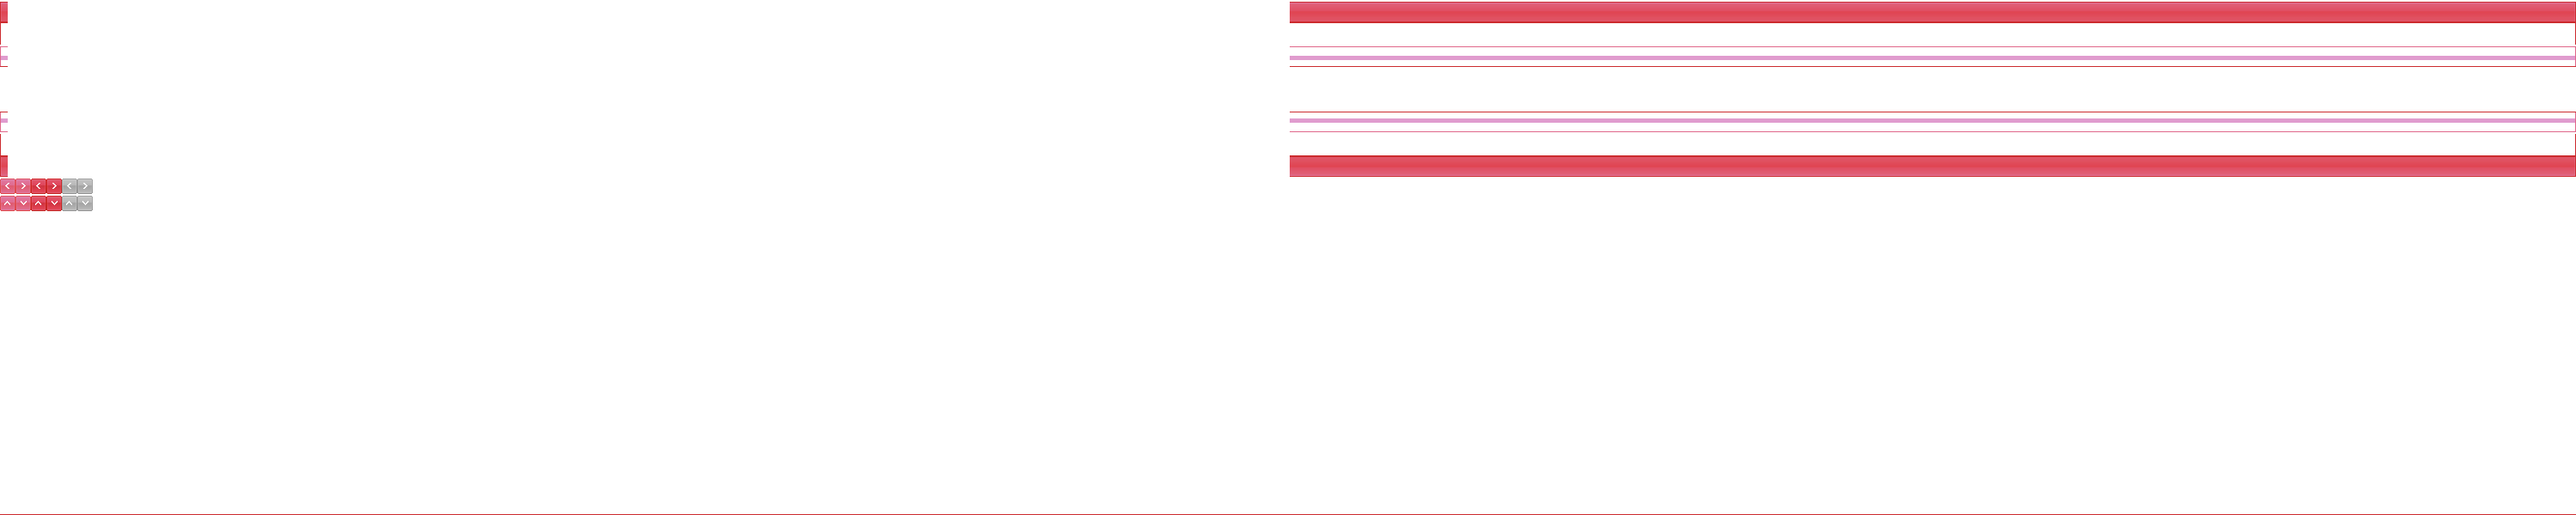
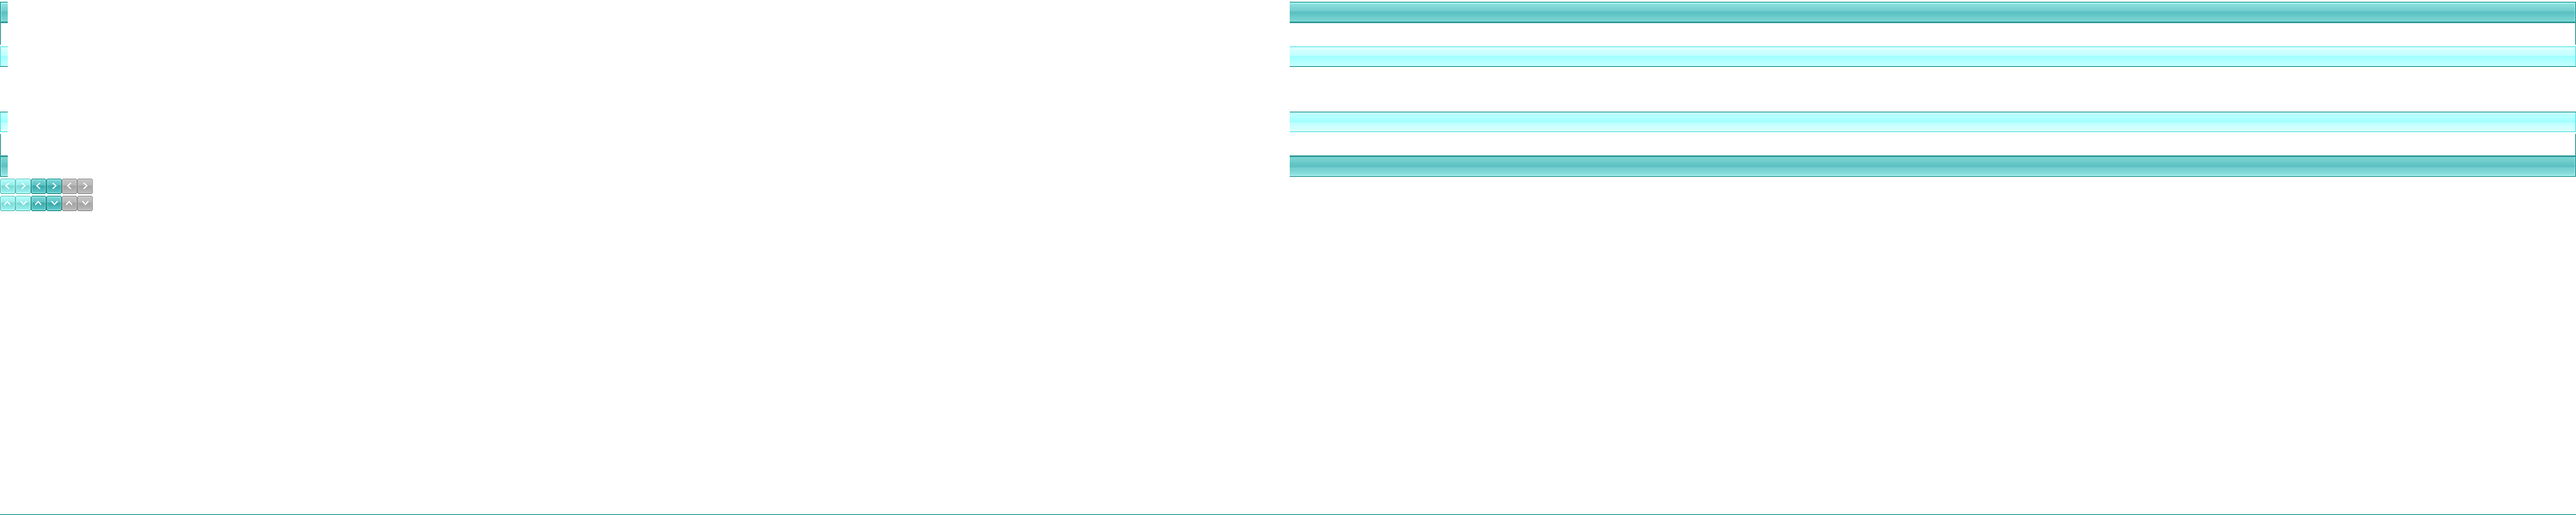
green theme

diff --git a/FlyCn/Content/themes/FlyCnGreen/TabStrip.FlyCnRed_Rad.css b/FlyCn/Content/themes/FlyCnGreen/TabStrip.FlyCnRed_Rad.css
@@ -6,7 +6,7 @@
 .RadTabStrip_FlyCnRed_Rad {
     color: #757575;
     font: normal 13px/22px Arial,Helvetica,sans-serif;
-    line-height: 15px;
+    line-height: 26px;
 }
 
     .RadTabStrip_FlyCnRed_Rad .rtsGhostTab {
@@ -17,27 +17,27 @@
 
     .RadTabStrip_FlyCnRed_Rad .rtsLevel1 {
         border-radius: 9px 9px 0 0;
-        background: #f06573 url('Common/radGradientDarkV50.png') 0 0 repeat-x;
+        background: #9bc4ae url('Common/radGradientDarkV50.png') 0 0 repeat-x;
         _background-image: none;
-        background-image: -webkit-linear-gradient(top,#f06585 0,#f06573 100%);
-        background-image: -moz-linear-gradient(top,#f06585 0,#f06573 100%);
-        background-image: -ms-linear-gradient(top,#f06585 0,#f06573 100%);
-        background-image: -o-linear-gradient(top,#f06585 0,#f06573 100%);
-        background-image: linear-gradient(top,#f06585 0,#f06573 100%);
+        background-image: -webkit-linear-gradient(top,#b8dece 0,#9bc4ae 100%);
+        background-image: -moz-linear-gradient(top,#b8dece 0,#9bc4ae 100%);
+        background-image: -ms-linear-gradient(top,#b8dece 0,#9bc4ae 100%);
+        background-image: -o-linear-gradient(top,#b8dece 0,#9bc4ae 100%);
+        background-image: linear-gradient(top,#b8dece 0,#9bc4ae 100%);
     }
 
     .RadTabStrip_FlyCnRed_Rad .rtsLevel2 {
         padding-top: 0;
         border-radius: 3px;
         color: #ffffff;
-        background: #b84d5a;
+        background: #688c7b;
     }
 
     .RadTabStrip_FlyCnRed_Rad .rtsLevel3 {
         padding-top: 0;
         border-radius: 3px;
         color: #ffffff;
-        background: #b84d5a;
+        background: #688c7b;
     }
 
     .RadTabStrip_FlyCnRed_Rad .rtsDisabled {
@@ -50,41 +50,41 @@
         }
 
     .RadTabStrip_FlyCnRed_Rad .rtsLevel1 {
-        font-size: 12px;
+        font-size: 15px;
     }
 
         .RadTabStrip_FlyCnRed_Rad .rtsLevel1 .rtsLink {
-    padding-top: 5px;
-    padding-bottom: 5px;
-    border-left: 1px solid #f0657a;
-    border-right: 1px solid #de5d79;
-    color: #FFFFFF;
-    text-shadow: 0 1px rgba(255,255,255,0.3);
-    background-position: 0 0;
-}
+            padding-top: 5px;
+            padding-bottom: 5px;
+            border-left: 1px solid #b4dec5;
+            border-right: 1px solid #8ac2b3;
+            color: #333333;
+            text-shadow: 0 1px rgba(255,255,255,0.3);
+            background-position: 0 0;
+        }
 
             .RadTabStrip_FlyCnRed_Rad .rtsLevel1 .rtsLink:hover {
                 color: #ffffff;
                 text-shadow: 0 -1px rgba(0,0,0,0.3);
-                background: #cf5761 url('Common/radGradientDarkV50.png') 0 0 repeat-x;
+                background: #7ca38e url('Common/radGradientDarkV50.png') 0 0 repeat-x;
                 _background-image: none;
-                background-image: -webkit-linear-gradient(top,#e35f6a 0,#cf5761 100%);
-                background-image: -moz-linear-gradient(top,#e35f6a 0,#cf5761 100%);
-                background-image: -ms-linear-gradient(top,#e35f6a 0,#cf5761 100%);
-                background-image: -o-linear-gradient(top,#e35f6a 0,#cf5761 100%);
-                background-image: linear-gradient(top,#e35f6a 0,#cf5761 100%);
+                background-image: -webkit-linear-gradient(top,#8db59f 0,#7ca38e 100%);
+                background-image: -moz-linear-gradient(top,#8db59f 0,#7ca38e 100%);
+                background-image: -ms-linear-gradient(top,#8db59f 0,#7ca38e 100%);
+                background-image: -o-linear-gradient(top,#8db59f 0,#7ca38e 100%);
+                background-image: linear-gradient(top,#8db59f 0,#7ca38e 100%);
             }
 
         .RadTabStrip_FlyCnRed_Rad .rtsLevel1 .rtsSelected, .RadTabStrip_FlyCnRed_Rad .rtsLevel1 .rtsSelected:hover {
             color: #ffffff;
             text-shadow: 0 -1px rgba(0,0,0,0.3);
-            background: #b84d58 url('Common/radGradientDarkV50.png') 0 0 repeat-x;
+            background: #688c7a url('Common/radGradientDarkV50.png') 0 0 repeat-x;
             _background-image: none;
-            background-image: -webkit-linear-gradient(top,#ab4853 0,#b84d58 100%);
-            background-image: -moz-linear-gradient(top,#ab4853 0,#b84d58 100%);
-            background-image: -ms-linear-gradient(top,#ab4853 0,#b84d58 100%);
-            background-image: -o-linear-gradient(top,#ab4853 0,#b84d58 100%);
-            background-image: linear-gradient(top,#ab4853 0,#b84d58 100%);
+            background-image: -webkit-linear-gradient(top,#5c806f 0,#688c7a 100%);
+            background-image: -moz-linear-gradient(top,#5c806f 0,#688c7a 100%);
+            background-image: -ms-linear-gradient(top,#5c806f 0,#688c7a 100%);
+            background-image: -o-linear-gradient(top,#5c806f 0,#688c7a 100%);
+            background-image: linear-gradient(top,#5c806f 0,#688c7a 100%);
             box-shadow: inset 0 0 3px rgba(0,0,0,0.3);
         }
 
@@ -118,7 +118,7 @@
         }
 
     .RadTabStrip_FlyCnRed_Rad .rtsLevel2 .rtsSelected, .RadTabStrip_FlyCnRed_Rad .rtsLevel2 .rtsSelected:hover {
-        background: #cf5761;
+        background: #7ca38e;
     }
 
     .RadTabStrip_FlyCnRed_Rad .rtsLevel3 .rtsLink {
@@ -133,7 +133,7 @@
         }
 
     .RadTabStrip_FlyCnRed_Rad .rtsLevel3 .rtsSelected, .RadTabStrip_FlyCnRed_Rad .rtsLevel3 .rtsSelected:hover {
-        background: #cf5761;
+        background: #7ca38e;
     }
 
     .RadTabStrip_FlyCnRed_Rad .rtsScroll {
@@ -179,8 +179,8 @@
     .RadTabStrip_FlyCnRed_Rad.RadTabStripVertical .rtsLevel1 .rtsLink {
         border-left: none;
         border-right: 0;
-        border-top: 1px solid #de5d79;
-        border-bottom: 1px solid #f0657a;
+        border-top: 1px solid #8ac2b3;
+        border-bottom: 1px solid #b4dec5;
     }
 
     .RadTabStrip_FlyCnRed_Rad.RadTabStripVertical .rtsLevel1 .rtsFirst .rtsLink {
@@ -273,8 +273,4 @@ html .RadTabStrip_FlyCnRed_Rad_disabled .rtsDisabled {
     margin-top: -8px;
     margin-left: -16px;
     background-position: -17px -167px;
-}
-
-div.RadTabStrip_FlyCnRed_Rad .rtsLink {
-    color: rgb(255, 255, 255);
 }
